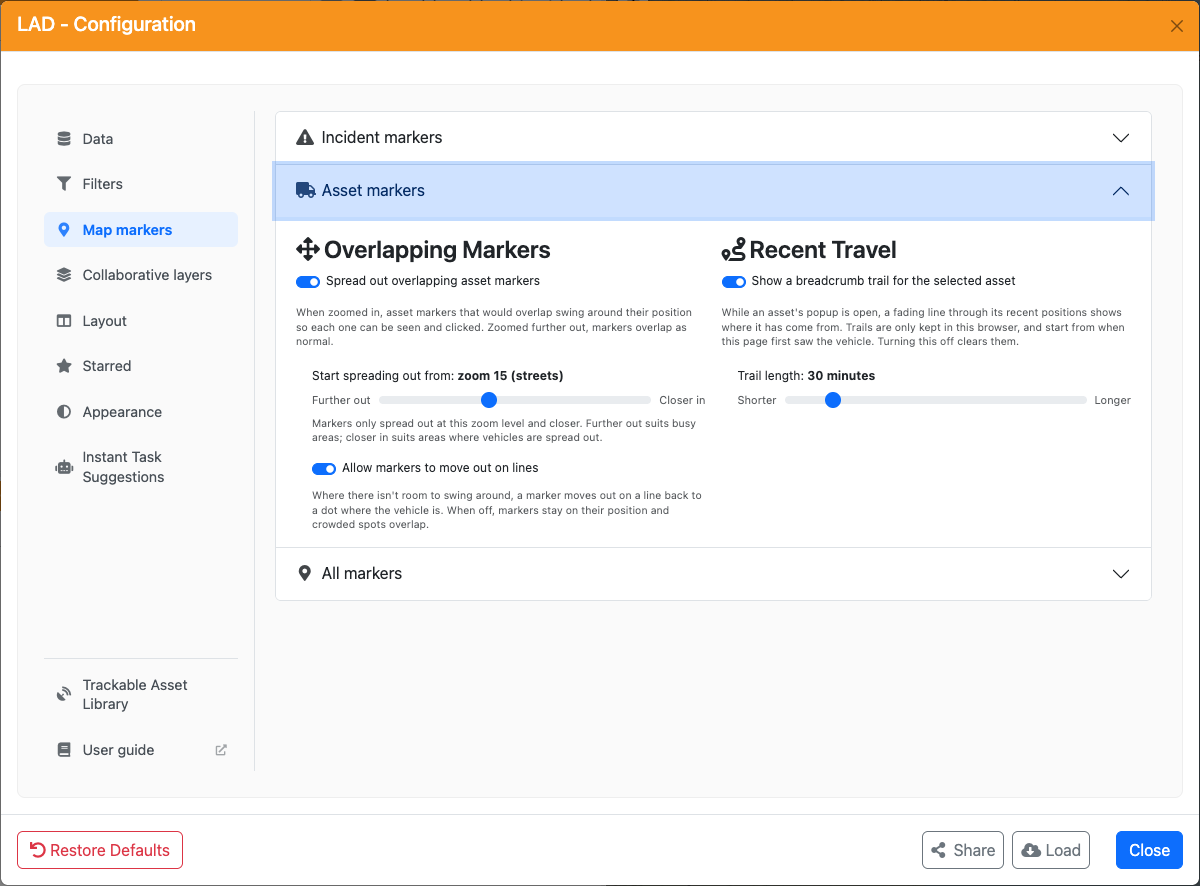
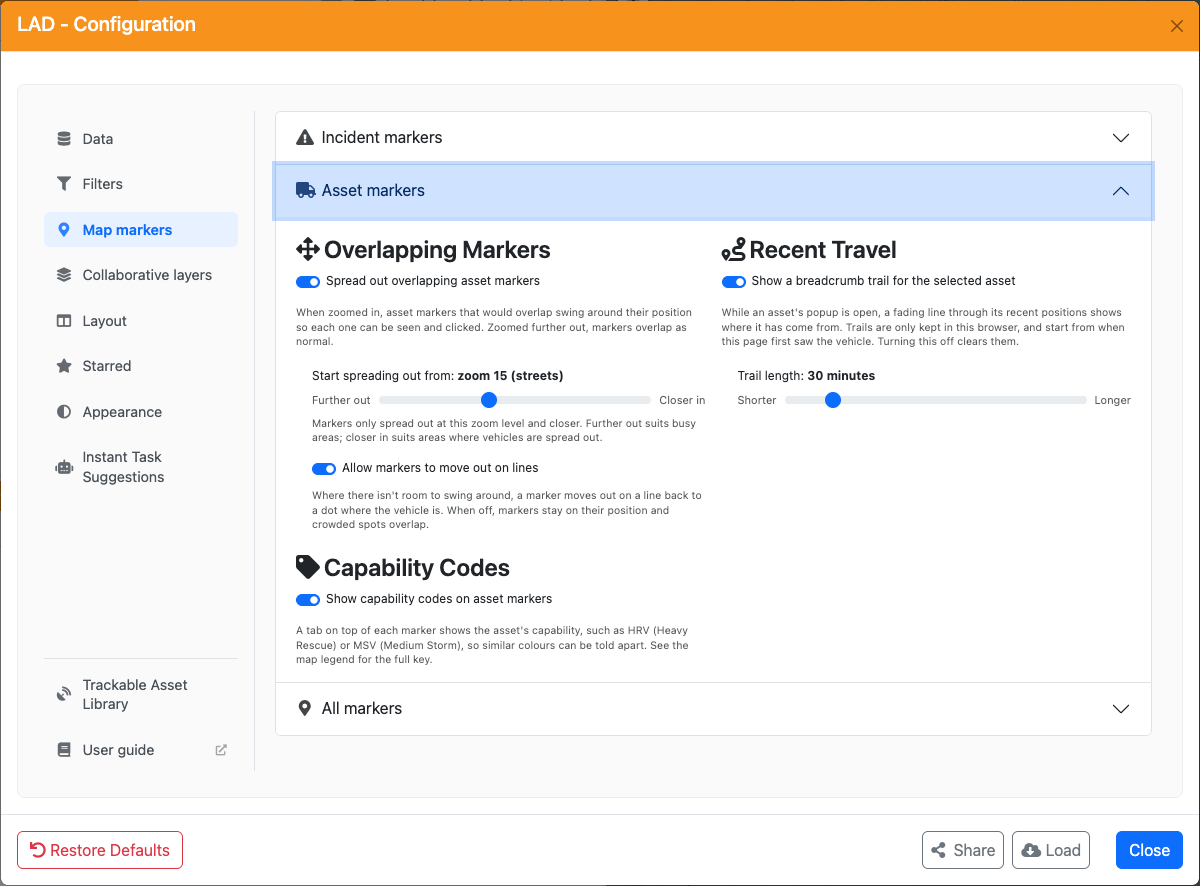
Sync preview docs from NSWSESMembers/Lighthouse@6d9b67d (master-dev)

Changed region(s): [[0.2467, 0.6095, 0.5858, 0.7619], [0.2467, 0.7923, 0.3392, 0.8228]]

diff --git a/preview/guides/lad/configuration.md b/preview/guides/lad/configuration.md
@@ -131,6 +131,26 @@ These options only show while **Spread out overlapping asset markers** is on.
 - **Show a breadcrumb trail for the selected asset** (on by default). While a vehicle's popup is open, a fading line through its recent positions shows where it has come from. See [Asset Breadcrumb Trails](situation-map.md#asset-breadcrumb-trails). Trails are kept only in this browser. Turning this off clears them.
 - **Trail length** sets how far back the trail goes, from **15 minutes** to **2 hours**. The default is **30 minutes**. Vehicles report their position every few minutes, so a longer trail shows more of the route.
 
+#### Capability Codes
+
+- **Show capability codes on asset markers** (on by default). A tab on top of each asset marker shows the asset's capability as a short code, so capabilities with similar colours can be told apart, such as the rescue tiers and Community First Responder. The map legend lists each code next to its capability:
+
+  | Code | Capability | Code | Capability |
+  | --- | --- | --- | --- |
+  | BUS | Bus | HRV | Heavy Rescue |
+  | CMD | Command | GLR | General Land Rescue |
+  | CCV | Corporate Command | SHQ | SHQ Pool / Pool Vehicle |
+  | CFR | Community First Responder | VES | Vessel (class not known) |
+  | GPV | General Purpose | PRT | Portable |
+  | LOG | Logistics | HCV | High Clearance |
+  | STM | Storm | SUP | Support |
+  | LSV | Light Storm | COW | Cell on Wheels |
+  | MSV | Medium Storm | SAV | Strategic Asset |
+  | LRV | Light Rescue | VC1–VC4 | Vessel, Class 1–4 |
+  | MRV | Medium Rescue | | |
+
+  Assets with any other capability, or none, have a grey marker and no code.
+
 ### All Markers
 
 #### Marker Layer Order

diff --git a/preview/guides/lad/interface.md b/preview/guides/lad/interface.md
@@ -95,11 +95,13 @@ Each entry displays:
 
 ### Searching and Filtering
 
-Search by callsign, unit or zone name, PSN ID, satellite ID or satellite equipment ID using the field at the top. The dropdowns below it narrow the list by **Talkgroup**, **Type** (e.g. Vehicle or Vessel) and **Source** — where the asset's location comes from: a **Satellite tracker**, or **PSN radio only** (no satellite tracker).
+Search by callsign, unit or zone name, PSN ID, satellite ID or satellite equipment ID using the field at the top. The dropdowns below it narrow the list by **Talkgroup**, **Type** (e.g. Vehicle or Vessel), **Capability** (as shown on the map, with its marker code, e.g. Heavy Rescue (HRV); every vessel is under Vessel) and **Source** — where the asset's location comes from: a **Satellite tracker**, or **PSN radio only** (no satellite tracker).
 
 ### Satellite-Tracked Assets
 
 If an asset's location comes from a satellite tracker, a satellite icon <img class="icon" src="images/icon-satellite.png" alt="Satellite" height="18"> shows next to the time it was last seen. The icon is crossed out <img class="icon" src="images/icon-satellite-inactive.png" alt="Satellite tracker not active" height="18"> if the tracker's status isn't **ACTIVE** — its last reported location may be out of date.
+
+On the map, a vessel with a class shows it in its capability code: **VC3** is a Class 3 vessel. A vessel whose class isn't known shows **VES**. The code only shows while **Show capability codes on asset markers** is on (see [Configuration](configuration.md#capability-codes)).
 
 ![Trackable Assets Library filtered to satellite-tracked assets](images/trackable-assets-library-satellite.png)
 

diff --git a/preview/guides/lad/common-functions.md b/preview/guides/lad/common-functions.md
@@ -80,7 +80,7 @@ Creates a radio log against a team on an incident. Works the same way as `task`:
 Finds any trackable asset, including ones not matched to a team, and zooms the map to it.
 
 1. Type `find` followed by part of the asset's callsign, PSN radio ID or satellite ID (e.g. `find ctn7`).
-2. Matching assets are listed with their capability, type, HQ, PSN ID and when they were last seen. Callsigns that start with what you typed come first.
+2. Matching assets are listed with their capability and marker code, type, HQ, PSN ID and when they were last seen. Callsigns that start with what you typed come first.
 3. Press <kbd>Enter</kbd> (or click an asset) to zoom to it and open its popup. If its asset layer is hidden, LAD turns it on.
 
 ## Starring Incidents and Teams
